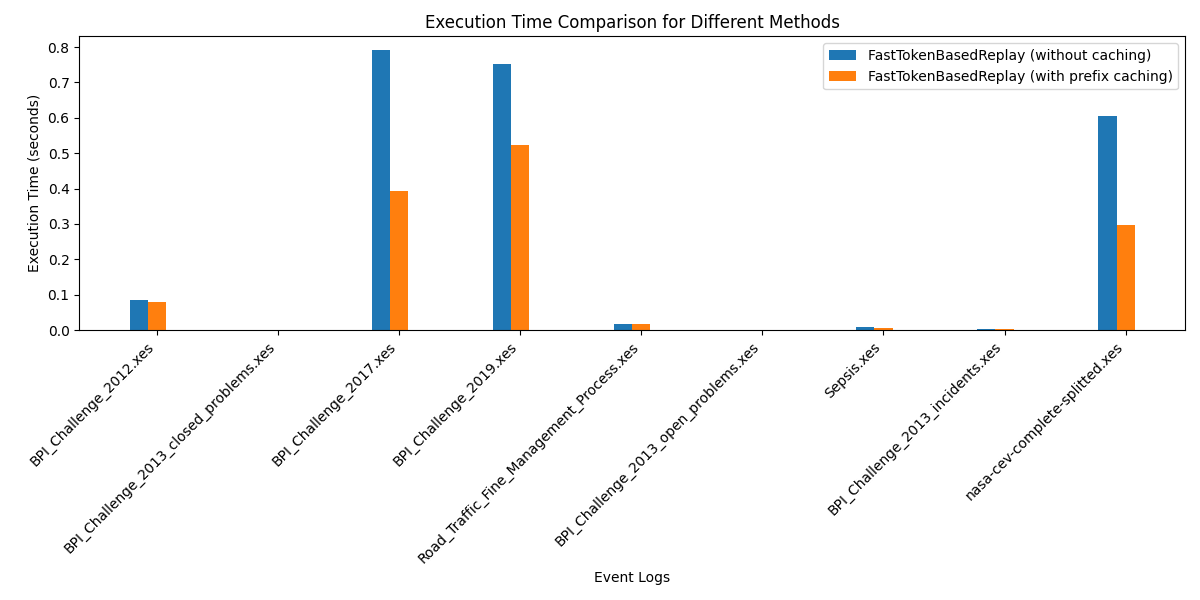
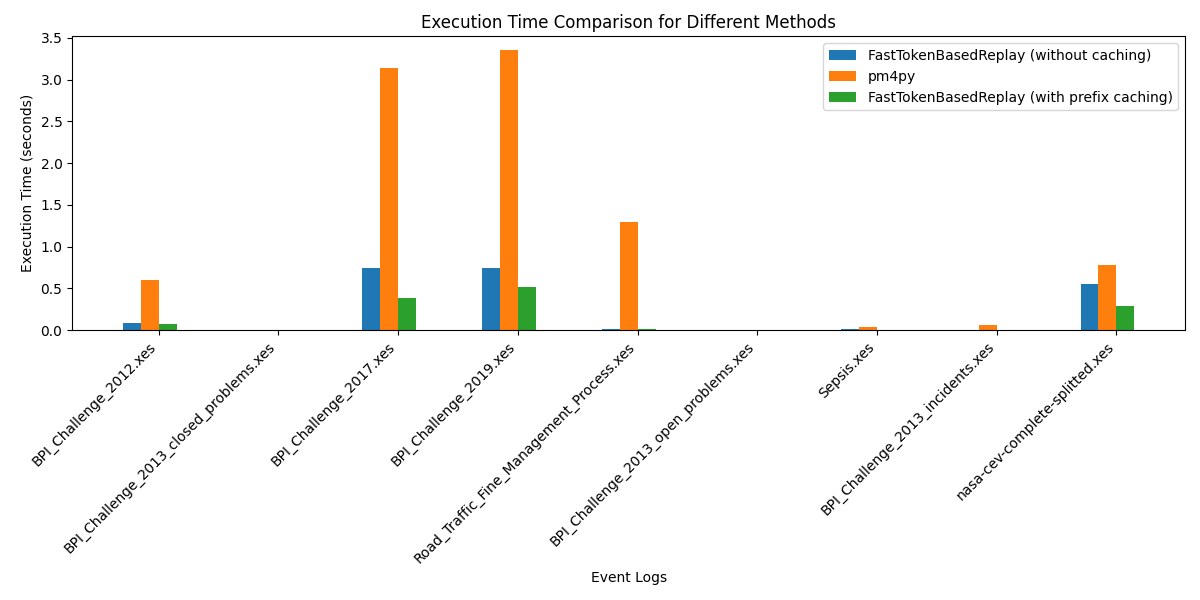
refactoring

diff --git a/src/Mutator.py b/src/Mutator.py
@@ -6,25 +6,27 @@ from src.EventLog import EventLog
 from src.Population import Population
 
 class MutatorBase:
-    def __init__(self, EventLog: EventLog):
-        self.EventLog = EventLog
+    def __init__(self):
+        pass
 
     def generate_new_population(self, old_population: List[ProcessTree], new_population_size: int) -> List[ProcessTree]:
         raise NotImplementedError
 
 
 class Mutator(MutatorBase):
-    def __init__(self, EventLog: EventLog, random_creation_rate: float, crossover_rate: float, mutation_rate: float, elite_rate: float, tournament_size: float):
-        super().__init__(EventLog)
+    def __init__(self, random_creation_rate: float, crossover_rate: float, mutation_rate: float, elite_rate: float):
+        self.event_log = None
         self.random_creation_rate = random_creation_rate
         self.crossover_rate = crossover_rate
         self.mutation_rate = mutation_rate
-        self.elite_rate = elite_rate 
-        self.tournament_size = tournament_size
+        self.elite_rate = elite_rate
+        
+    def set_event_log(self, event_log: EventLog):
+        self.event_log = event_log
         
     def random_creation(self, num_new_trees: int) -> List[ProcessTree]:
         generator = BottomUpBinaryTreeGenerator()
-        new_trees = generator.generate_population(self.EventLog.unique_activities(), num_new_trees)
+        new_trees = generator.generate_population(self.event_log.unique_activities(), num_new_trees)
         return new_trees.get_population()
         
     def crossover(self, parent1: ProcessTree, parent2: ProcessTree) -> ProcessTree:
@@ -59,7 +61,7 @@ class Mutator(MutatorBase):
             try:
                 # Ensure that the tree is strictly valid
                 candidate.remove_duplicate_activities()
-                candidate.if_missing_insert_activities(self.EventLog.unique_activities())
+                candidate.if_missing_insert_activities(self.event_log.unique_activities())
                 return candidate
             except ValueError:
                 continue   # remove_duplicate_activities raise an error, i.e. not possible to remove duplicate activities without breaking the tree
@@ -133,7 +135,7 @@ class Mutator(MutatorBase):
             
             # After succesfully removing subtree, generate random tree containing all missing activities
             generator = BottomUpBinaryTreeGenerator()
-            missing_activities = tree.get_missing_activities(self.EventLog.unique_activities())
+            missing_activities = tree.get_missing_activities(self.event_log.unique_activities())
             new_sub_tree = generator.generate_population(missing_activities, n=1)[0]
             
             # Insert the new subtree into the tree
@@ -216,8 +218,13 @@ class Mutator(MutatorBase):
             new_population.add_tree(self.mutation(parent))
     
         return new_population
-    
-    def tournament_population_generation(self, old_population: Population) -> Population:
+
+class TournamentMutator(Mutator):
+    def __init__(self, random_creation_rate: float, crossover_rate: float, mutation_rate: float, elite_rate: float, tournament_size: float):
+        super().__init__(random_creation_rate, crossover_rate, mutation_rate, elite_rate, tournament_size)
+        self.tournament_size = tournament_size
+
+    def generate_new_population(self, old_population: Population) -> Population:
         new_population = Population([])
         population_size = len(old_population.get_population())
         
@@ -243,7 +250,8 @@ class Mutator(MutatorBase):
         new_population.add_trees(random_population)
         
         return new_population
-    
+
+
 def deep_copy_tree(node: ProcessTree) -> 'ProcessTree':
     # Create root node
     new_node = ProcessTree(operator=node.operator, label=node.label)

diff --git a/src/GeneticAlgorithm.py b/src/GeneticAlgorithm.py
@@ -3,18 +3,17 @@ from src.RandomTreeGenerator import BottomUpBinaryTreeGenerator
 from src.RandomTreeGenerator import SequentialTreeGenerator
 from src.ProcessTree import ProcessTree
 from src.EventLog import EventLog
-from src.Mutator import Mutator
+from src.Mutator import Mutator, TournamentMutator
 from src.Population import Population
 from src.Monitor import Monitor
 from src.Filtering import Filtering
 from src.ProcessTreeRegister import ProcessTreeRegister
 import tqdm
 import time
-from pprint import pprint
-
+from typing import Union
 
 class GeneticAlgorithm:
-    def __init__(self, mutator: Mutator, min_fitness: float = None, max_generations: int = 100, stagnation_limit = None, time_limit = None, population_size = 100):
+    def __init__(self, min_fitness: float = None, max_generations: int = 100, stagnation_limit = None, time_limit = None, population_size = 100):
         """
         :param min_fitness: Minimum fitness level to stop the algorithm
         :param max_generations: Maximum number of generations
@@ -29,7 +28,6 @@ class GeneticAlgorithm:
         self.start_time = None
         self.population_size = population_size
 
-        self.mutator = mutator
         self.monitor = Monitor()
         self.process_tree_register = ProcessTreeRegister({})
         
@@ -67,18 +65,23 @@ class GeneticAlgorithm:
         if self.best_tree is None or best_tree.get_fitness() > self.best_tree.get_fitness():
             self.best_tree = best_tree
     
-    def run(self, eventlog: EventLog, percentage_of_log: float) -> ProcessTree:
+    def run(self, 
+            eventlog: EventLog, 
+            mutator: Union[Mutator, TournamentMutator], 
+            generator: Union[BottomUpBinaryTreeGenerator, SequentialTreeGenerator],
+            percentage_of_log: float
+        ) -> ProcessTree:
         # Start the timer
         self.start_time = time.time()
         
         # Filter the log
         eventlog = Filtering.filter_eventlog_by_top_percentage_unique(eventlog, percentage_of_log, True)
+        mutator.set_event_log(eventlog)
         
-        # Initialize the population
-        #generator = SequentialTreeGenerator()
-        #population = generator.generate_population(eventlog, n=self.population_size)
-        generator = BottomUpBinaryTreeGenerator()
+        # Generate initial population
         population = generator.generate_population(eventlog.unique_activities(), n=self.population_size)
+        
+        # Initialize the evaluator
         evaluator = Objective(eventlog)
         
         for generation in tqdm.tqdm(range(self.max_generations), desc="Discovering process tree", unit="generation"):
@@ -94,8 +97,7 @@ class GeneticAlgorithm:
                 break
                
             # Generate a new population
-            # population = self.mutator.tournament_population_generation(population)
-            population = self.mutator.generate_new_population(population)
+            population = mutator.generate_new_population(population)
         
         return self.best_tree
     

diff --git a/src/Discovery.py b/src/Discovery.py
@@ -1,5 +1,5 @@
 from src.EventLog import EventLog
-from src.Mutator import Mutator
+from src.Mutator import Mutator, TournamentMutator
 from src.GeneticAlgorithm import GeneticAlgorithm
 from pm4py.algo.discovery.inductive.algorithm import apply as pm4py_inductive_miner
 from pm4py.objects.conversion.process_tree import converter as pt_converter
@@ -8,24 +8,26 @@ from src.PetriNet import PetriNet
 
 class Discovery:
     @staticmethod
-    def genetic_algorithm(event_log: EventLog, random_creation_rate, crossover_rate, mutation_rate, 
-                       tournament_size, elite_rate, min_fitness, max_generations, stagnation_limit, 
-                       time_limit, population_size, percentage_of_log) -> PetriNet:
+    def genetic_algorithm(event_log: EventLog, **kwargs) -> PetriNet:
         """
         A wrapper for the genetic algorithm.
-        """        
-        mutator = Mutator(event_log, random_creation_rate=random_creation_rate, crossover_rate=crossover_rate,
-                      mutation_rate=mutation_rate, tournament_size=tournament_size, elite_rate=elite_rate)
-
-        ga = GeneticAlgorithm(mutator, min_fitness=min_fitness, max_generations=max_generations, 
-                          stagnation_limit=stagnation_limit, time_limit=time_limit, 
-                          population_size=population_size)
-
-        our_pt = ga.run(event_log, percentage_of_log)
+        """
+        ga = GeneticAlgorithm(
+            min_fitness=kwargs.get("min_fitness", 0.9), 
+            max_generations=kwargs.get("max_generations", 100), 
+            stagnation_limit=kwargs.get("stagnation_limit", 10), 
+            time_limit=kwargs.get("time_limit", 300), 
+            population_size=kwargs.get("population_size", 50)
+        )
+        generator = kwargs.get("generator")
+        percentage_of_log = kwargs.get("percentage_of_log", 1.0)
+        mutator = kwargs.get("mutator")            
+        
+        our_pt = ga.run(event_log, mutator, generator, percentage_of_log)
         pm4py_net, init, end = our_pt.to_pm4py_pn()
         
         return PetriNet.from_pm4py(pm4py_net, init, end)
-    
+
     @staticmethod
     def inductive_miner(event_log: EventLog, **kwargs) -> PetriNet:
         """

diff --git a/real_life_datasets_experiments.py b/real_life_datasets_experiments.py
@@ -1,6 +1,8 @@
 from src.BatchFileLoader import BatchFileLoader
 from src.Evaluator import MultiEvaluator
 from src.Filtering import Filtering
+from src.Mutator import Mutator, TournamentMutator
+from src.RandomTreeGenerator import BottomUpBinaryTreeGenerator, SequentialTreeGenerator
 import os
 
 INPUT_DIR = "./real_life_datasets/"
@@ -20,23 +22,20 @@ if __name__ == "__main__":
         for eventlog in temp_eventlogs.values():
             eventlogs[dataset_dir] = eventlog
     
-    #Create and evaluate the MultiEvaluator
-    multi_evaluator = MultiEvaluator(
-        eventlogs, 
-        methods=METHODS,
-        percentage_of_log=0.1,
-        max_generations=100,
-        population_size=100,
-        tournament_size=0.25,
-        random_creation_rate=0.2,
-        crossover_rate=0.3,
-        mutation_rate=0.3,
-        elite_rate=0.2,
-        min_fitness=None,
-        stagnation_limit=None,
-        time_limit=None,
-    )
+    # Genetic algorithm kwargs
+    genetic_kwargs = {
+        "percentage_of_log": 0.1,
+        "mutator": Mutator(random_creation_rate=0.2, crossover_rate=0.3, mutation_rate=0.3, elite_rate=0.2),
+        "generator": BottomUpBinaryTreeGenerator(),
+        "max_generations": 100,
+        "population_size": 100,
+        "min_fitness": None,
+        "stagnation_limit": None,
+        "time_limit": None
+    }
     
+    #Create and evaluate the MultiEvaluator
+    multi_evaluator = MultiEvaluator(eventlogs, methods=METHODS, **genetic_kwargs)
     results_df = multi_evaluator.evaluate_all()
     multi_evaluator.save_df_to_pdf(results_df, OUTPUT_DIR + "results.pdf")
     multi_evaluator.export_petri_nets(OUTPUT_DIR)

diff --git a/controlled_scenarios_experiments.py b/controlled_scenarios_experiments.py
@@ -1,5 +1,7 @@
 from src.BatchFileLoader import BatchFileLoader
 from src.Evaluator import MultiEvaluator
+from src.Mutator import Mutator, TournamentMutator
+from src.RandomTreeGenerator import BottomUpBinaryTreeGenerator, SequentialTreeGenerator
 import os
 
 INPUT_DIR = "./controlled_scenarios/"
@@ -21,22 +23,17 @@ if __name__ == "__main__":
         assert len(temp_eventlogs) == 1, f"Expected one event log in {dataset_dir}, got {len(temp_eventlogs)}"
         eventlogs[dataset_dir] = next(iter(temp_eventlogs.values()))
     
-    #Create and evaluate the MultiEvaluator
-    multi_evaluator = MultiEvaluator(
-        eventlogs,
-        methods=METHODS,
-        population_size=100,
-        max_generations=100,
-        random_creation_rate=0.2,
-        crossover_rate=0.2,
-        mutation_rate=0.3,
-        elite_rate=0.3,
-        tournament_size=0.25,
-        min_fitness=None,
-        stagnation_limit=None,
-        time_limit=None,
-    )
-    
+    genetic_kwargs = {
+    "percentage_of_log": 0.1,
+    "mutator": Mutator(random_creation_rate=0.2, crossover_rate=0.3, mutation_rate=0.3, elite_rate=0.2),
+    "generator": BottomUpBinaryTreeGenerator(),
+    "max_generations": 100,
+    "population_size": 100,
+    "min_fitness": None,
+    "stagnation_limit": None,
+    "time_limit": None
+    }
+    multi_evaluator = MultiEvaluator(eventlogs, methods=METHODS, **genetic_kwargs)
     results_df = multi_evaluator.evaluate_all(num_cores=NUM_WORKERS)
     multi_evaluator.save_df_to_pdf(results_df, OUTPUT_DIR + "results.pdf")
     multi_evaluator.export_petri_nets(OUTPUT_DIR)

diff --git a/benchmark_fitness.py b/benchmark_fitness.py
@@ -244,7 +244,7 @@ def real_life_evaluation():
                 our_net = PetriNet.from_pm4py(pm4py_net, init, end)
             
                 data[filename] = {"FastTokenBasedReplay (without caching)": time_fast_token_based_replay_without_caching(our_event_log, our_net),
-                                #"pm4py": time_pm4py_token_based_replay(our_event_log, our_net),
+                                "pm4py": time_pm4py_token_based_replay(our_event_log, our_net),
                                 "FastTokenBasedReplay (with prefix caching)": time_fast_token_based_replay_with_prefix_caching(our_event_log, our_net),
                                 #"FastTokenBasedReplay (with suffix caching)": time_fast_token_based_replay_with_suffix_caching(our_event_log, our_net),
                                 #"FastTokenBasedReplay (with prefix and suffix caching)" : time_fast_token_based_replay_with_prefix_and_suffix_caching(our_event_log, our_net)
@@ -307,13 +307,13 @@ def synthetic_evaluation():
     plt.plot(num_traces, ftr_with_suffix_caching_times, label="FastTokenBasedReplay with suffix caching")
     #plt.plot(num_traces, ftr_with_prefix_and_suffix_times, label="FastTokenBasedReplay with prefix and suffix caching")
     plt.plot(num_traces, pm4py_token_based_times, label="pm4py token based")
-    #plt.plot(num_traces, pm4py_alignment_times, label="pm4py alignment")
+    # plt.plot(num_traces, pm4py_alignment_times, label="pm4py alignment")
     
     plt.xlabel("Number of traces")
     plt.ylabel("Time (s)")
     plt.legend()
     plt.show()
-
+ 
 
 
 if __name__ == "__main__":

diff --git a/src/Objective.py b/src/Objective.py
@@ -67,12 +67,16 @@ class Objective:
         fitness = FastTokenBasedReplay.calculate_fitness(self.ftr_eventlog, ftr_petri_net, False, False)
         return fitness
     
+    def ftr_precision(self, ftr_petri_net):
+        precision = FastTokenBasedReplay.calculate_precision(self.ftr_eventlog, ftr_petri_net)
+        return precision
+    
     def fitness(self, process_tree: ProcessTree) -> float:
         weights = {
             "simplicity": 25,
             "refined_simplicity": 25,
+            "average_trace_fitness": 300
             # "generalization": 50,
-            "average_trace_fitness": 300,
             # "precision": 50,
         }
         
@@ -81,9 +85,9 @@ class Objective:
         scores = {
             "simplicity": self.simplicity(pm4py_pn),
             "refined_simplicity": self.refined_simplicity(pm4py_pn),
+            "average_trace_fitness": self.ftr_fitness(ftr_pn)
             # "generalization": self.generalization(pm4py_pn, initial_marking, final_marking),
-            "average_trace_fitness": self.ftr_fitness(ftr_pn),
-            # "precision": self.precision(pm4py_pn, initial_marking, final_marking),
+            # "precision": self.ftr_precision(ftr_pn)
         }
         return sum(scores[key] * weights[key] for key in scores.keys())
     
